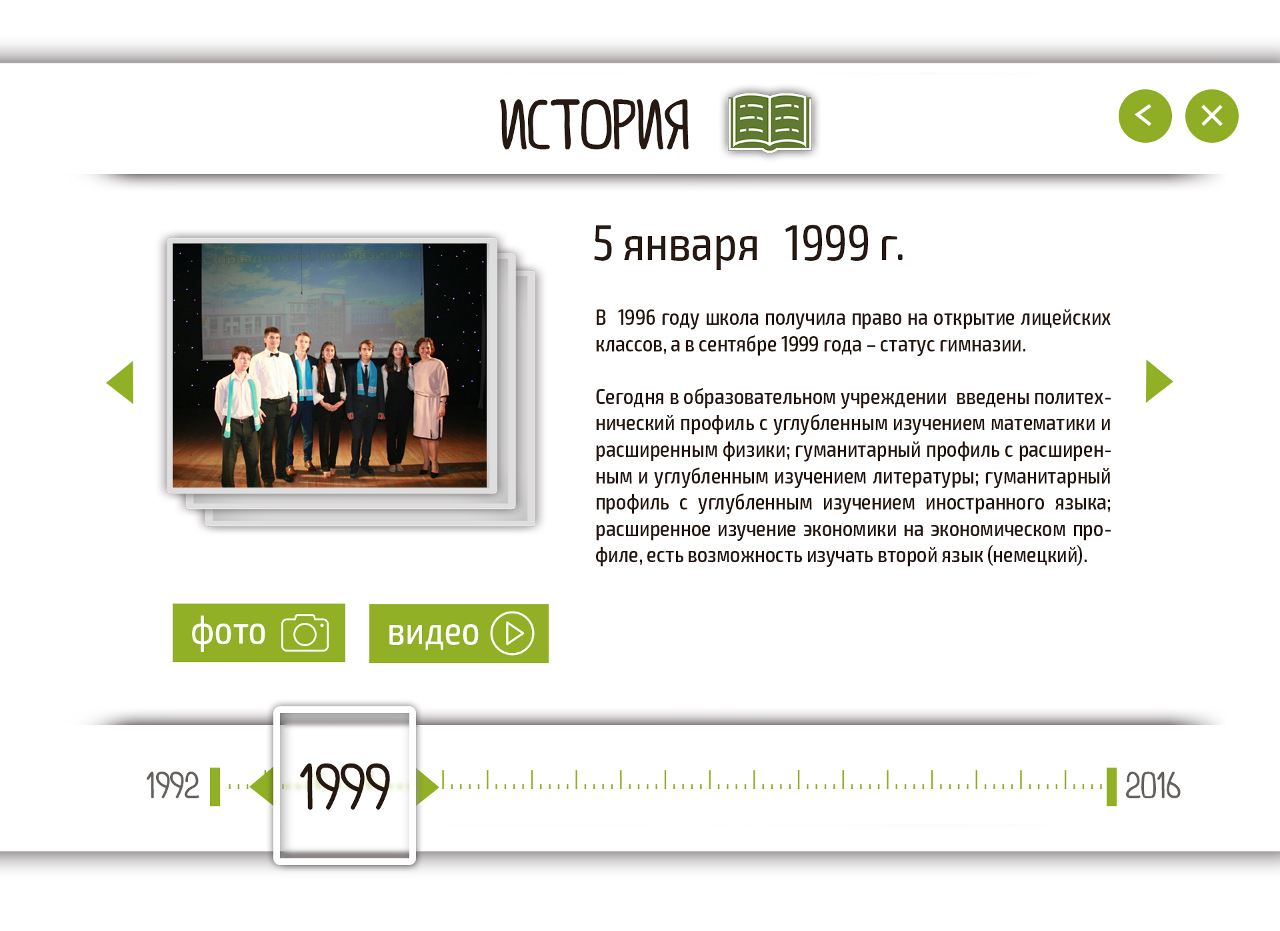
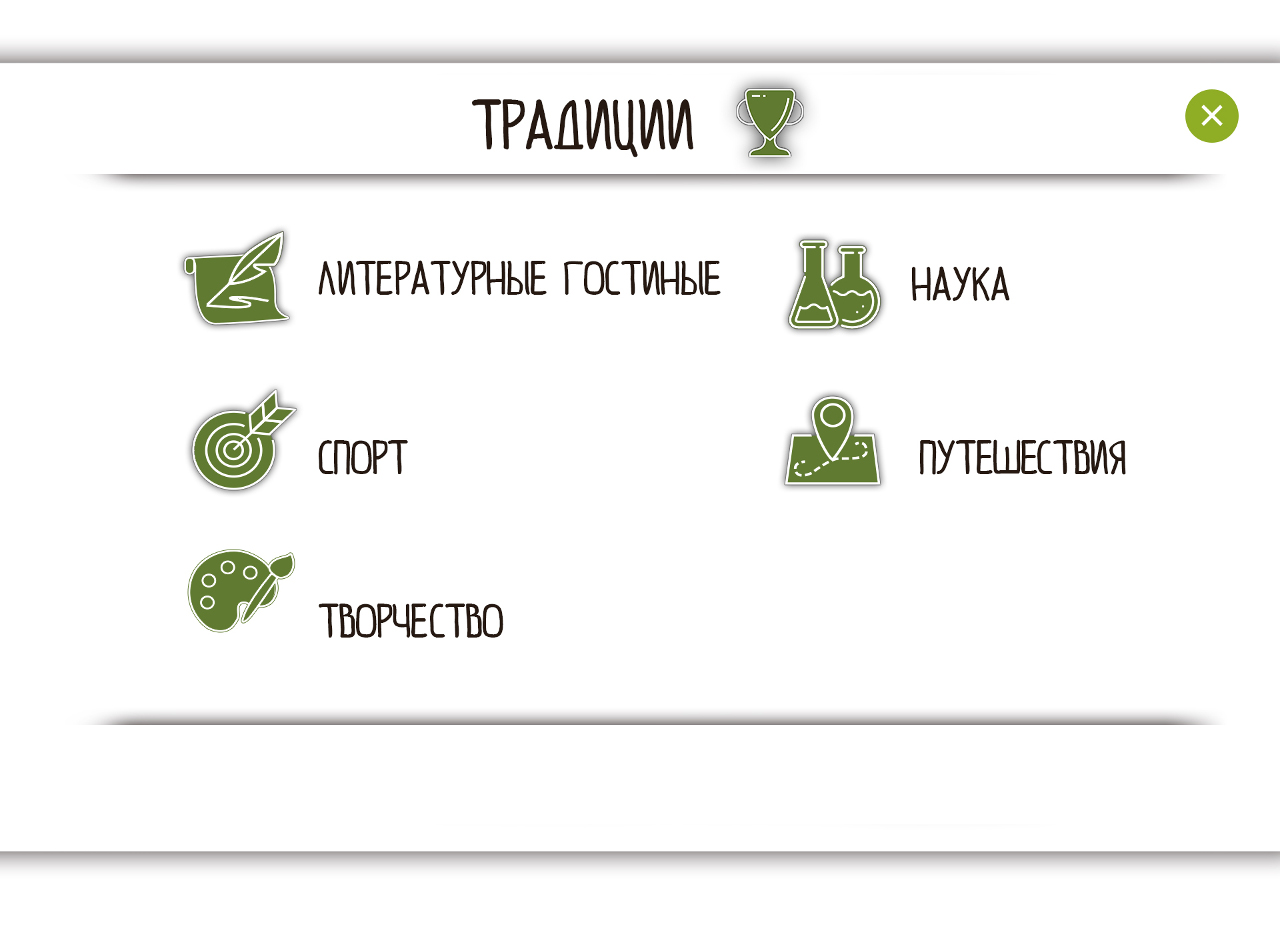
Add Traditions modal

diff --git a/src/main/js/app/RoutingManager.js b/src/main/js/app/RoutingManager.js
@@ -16,6 +16,7 @@ import HistoryEvents from '../components/HistoryEvents/HistoryEvents';
 import HistoryEventsMedia from '../components/HistoryEvents/HistoryEventsMedia/HistoryEventsMedia';
 import HistoryEventsPhoto from '../components/HistoryEvents/HistoryEventsMedia/HistoryEventsPhoto/HistoryEventsPhoto';
 import HistoryEventsVideo from '../components/HistoryEvents/HistoryEventsMedia/HistoryEventsVideo/HistoryEventsVideo';
+import Traditions from '../components/Traditions/Traditions';
 
 class EmptyModal extends React.Component {
   render() {
@@ -91,7 +92,8 @@ class SouvenirOrderModal extends React.Component {
 
 class HistoryEventsModal extends React.Component {
   render() {
-    this.props.params.type = "HISTORY";
+    if (!this.props.params.type)
+      this.props.params.type = "history";
     return renderModalWithComponent(HistoryEvents, this.props.params)
   }
 }
@@ -114,15 +116,23 @@ class HistoryEventsVideoWrapper extends React.Component {
 
 class HistoryEventsPhotoModal extends React.Component {
   render() {
-    this.props.params.type = "HISTORY";
+    if (!this.props.params.type)
+      this.props.params.type = "history";
     return renderInnerModalWithComponent(HistoryEvents, HistoryEventsPhotoWrapper, this.props.params);
   }
 }
 
 class HistoryEventsVideoModal extends React.Component {
   render() {
-    this.props.params.type = "HISTORY";
+    if (!this.props.params.type)
+      this.props.params.type = "history";
     return renderInnerModalWithComponent(HistoryEvents, HistoryEventsVideoWrapper, this.props.params);
+  }
+}
+
+class TraditionsModal extends React.Component {
+  render() {
+    return renderModalWithComponent(Traditions, this.props.params);
   }
 }
 
@@ -140,6 +150,10 @@ export default class RoutingManager {
                 <Route path="/history(/:eventId)" component={HistoryEventsModal}/>
                 <Route path="/history/:eventId/photo/(:index)" component={HistoryEventsPhotoModal}/>
                 <Route path="/history/:eventId/video/(:index)" component={HistoryEventsVideoModal}/>
+                <Route path="/traditions" component={TraditionsModal}/>
+                <Route path="/traditions/:type(/:eventId)" component={HistoryEventsModal}/>
+                <Route path="/traditions/:type/:eventId/photo/(:index)" component={HistoryEventsPhotoModal}/>
+                <Route path="/traditions/:type/:eventId/video/(:index)" component={HistoryEventsVideoModal}/>
                 <Route path="*" component={null}/>
             </Router>
         ), document.getElementsByClassName('ReactModalPortal')[0]);

diff --git a/src/main/js/components/HistoryEvents/HistoryEvents.js b/src/main/js/components/HistoryEvents/HistoryEvents.js
@@ -14,21 +14,21 @@ import Actions from '../../actions/Actions';
 import HistoryEventsStore from '../../stores/HistoryEventsStore';
 
 const modalTitles = {
-    HISTORY: "ИСТОРИЯ",
-    LITERATURE_CLUB: "ЛИТЕРАТУРНЫЕ ГОСТИННЫЕ",
-    SPORT: "СПОРТ",
-    ART: "ТВОРЧЕСТВО",
-    SCIENCE: "НАУКА",
-    TRAVEL: "ПУТЕШЕСТВИЯ"
+    history: "ИСТОРИЯ",
+    literature_club: "ЛИТЕРАТУРНЫЕ ГОСТИННЫЕ",
+    sport: "СПОРТ",
+    art: "ТВОРЧЕСТВО",
+    science: "НАУКА",
+    travel: "ПУТЕШЕСТВИЯ"
 };
 
 const modalIcons = {
-    HISTORY: "book",
-    LITERATURE_CLUB: "scroll",
-    SPORT: "darts",
-    ART: "easel",
-    SCIENCE: "bulbs",
-    TRAVEL: "map"
+    history: "book",
+    literature_club: "scroll",
+    sport: "darts",
+    art: "easel",
+    science: "bulbs",
+    travel: "map"
 }
 
 export default class HistoryEvents extends SelfUpdatingComponent {
@@ -57,7 +57,7 @@ export default class HistoryEvents extends SelfUpdatingComponent {
             return;
         }
 
-        this.pathPrefix = type === "HISTORY" ? "/history" : `/traditions/${type.toLowerCase()}`;
+        this.pathPrefix = type === "history" ? "/history" : `/traditions/${type.toLowerCase()}`;
 
         
         this.firstEventForEachYear = {};
@@ -82,6 +82,7 @@ export default class HistoryEvents extends SelfUpdatingComponent {
                 previousEvent: currentEventIndex === 0 ? null : list[currentEventIndex - 1],
                 nextEvent: currentEventIndex === list.length - 1 ? null : list[currentEventIndex + 1]
             });
+        //location.hash is "#/history|(traditions/...)"
         } else {
             id = list[0].id;
             Actions.routeTo(`${this.pathPrefix}/${id}`);
@@ -126,10 +127,12 @@ export default class HistoryEvents extends SelfUpdatingComponent {
                 />
             </div> :
             null;
+
+        var backUrl = type === "history" ? null : "/traditions";
         
         return (
             <div className="historyEvents">
-                <ModalHeader title={modalTitles[type]} iconType={modalIcons[type]}/>
+                <ModalHeader title={modalTitles[type]} iconType={modalIcons[type]} backUrl={backUrl}/>
                 <div className="modal_content historyEvents_content">
                     <div
                         className={classnames("arrow_left", "historyEvents_arrowLeft", {historyEvents_arrow_disabled: state.previousEvent === null})}

diff --git a/src/main/js/components/Traditions/Traditions.js b/src/main/js/components/Traditions/Traditions.js
@@ -1,0 +1,47 @@
+'use strict';
+
+import './Traditions.css';
+
+import React from 'react';
+import classnames from 'classnames';
+import { Link } from 'react-router';
+
+import ModalHeader from '../Modal/ModalHeader/ModalHeader';
+import ModalFooter from '../Modal/ModalFooter/ModalFooter';
+
+import Actions from '../../actions/Actions';
+import HistoryEventsStore from '../../stores/HistoryEventsStore';
+
+export default class Traditions extends React.Component {
+    render() {
+        function renderItem(columnNumber, iconType, name, linkTo) {
+            return (
+                <Link to={`/traditions/${linkTo}`} className={`traditions_column traditions_column_${columnNumber.toString()}`}>
+                    <div className={`tradition_icon tradition_icon_${iconType}`}></div>
+                    <div className="traditions_itemName">{name}</div>
+                </Link>
+            )
+        }
+
+
+        return (
+            <div className="traditions">
+                <ModalHeader title="ТРАДИЦИИ" iconType="cup"/>
+                <div className="modal_content traditions_content">
+                    <div className="traditions_row">
+                        {renderItem(1, "scroll", "ЛИТЕРАТУРНЫЕ ГОСТИННЫЕ", "literature_club")}
+                        {renderItem(2, "bulbs", "НАУКА", "science")}
+                    </div>
+                    <div className="traditions_row">
+                        {renderItem(1, "darts", "СПОРТ", "sport")}
+                        {renderItem(2, "map", "ПУТЕШЕСТВИЯ", "travel")}
+                    </div>
+                    <div className="traditions_row">
+                        {renderItem(1, "easel", "ТВОРЧЕСТВО", "art")}
+                    </div>
+                </div>
+                <ModalFooter/>
+            </div>
+        )
+    }
+}

diff --git a/src/main/js/components/Modal/ModalHeader/ModalHeader.css b/src/main/js/components/Modal/ModalHeader/ModalHeader.css
@@ -11,32 +11,64 @@
 
 .modal_icon {
     display: inline-block;
-    width: 99px;
     height: 85px;
     vertical-align: middle;
+    background-image: url(./images/icons.png); 
 }
 
 .modal_icon.modal_icon_leaf {
-    width: 64px;
-    background-image: url(./images/leaf.png); 
+    background-position-x: left;
+    width: 61px;
 }
 
 .modal_icon.modal_icon_mortarboard {
-    background-image: url(./images/mortarboard.png);
-}
-
-.modal_icon.modal_icon_admin {
-    width: 71px;
-    background-image: url(./images/admin.png);
+    background-position-x: -61px;
+    width: 100px;
 }
 
 .modal_icon.modal_icon_t-shirt {
-    background-image: url(./images/t-shirt.png);
+    background-position-x: -161px;
+    width: 102px;
 }
 
 .modal_icon.modal_icon_book {
-    width: 121px;
-    background-image: url(./images/book.png);
+    background-position-x: -263px;
+    width: 114px;
+}
+
+.modal_icon.modal_icon_admin {
+    background-position-x: -377px;
+    width: 73px;
+}
+
+.modal_icon.modal_icon_cup {
+    background-position-x: -450px;
+    width: 86px;
+}
+
+.modal_icon.modal_icon_scroll {
+    background-position-x: -536px;
+    width: 97px;
+}
+
+.modal_icon.modal_icon_darts {
+    background-position-x: -633px;
+    width: 90px;
+}
+
+.modal_icon.modal_icon_easel {
+    background-position-x: -723px;
+    width: 108px;
+}
+
+.modal_icon.modal_icon_bulbs {
+    background-position-x: -831px;
+    width: 91px;
+}
+
+.modal_icon.modal_icon_map {
+    background-position-x: -922px;
+    width: 91px;
 }
 
 .modal_closeButton {

diff --git a/src/main/js/components/Traditions/Traditions.css b/src/main/js/components/Traditions/Traditions.css
@@ -1,0 +1,68 @@
+.traditions_content {
+    margin: 45px 0 7px 162px;
+    width: 1098px;
+    height: 498px;
+}
+
+.traditions_row {
+    margin-bottom: 50px;
+}
+
+.traditions_column {
+    display: inline-block;
+    vertical-align: top;
+    text-decoration: none;
+    color: black;
+    border-radius: 5px;
+}
+
+.traditions_column:hover {
+    background-color: rgba(200, 200, 200, 0.2);
+}
+
+.traditions_column_1 {
+    width: 604px;
+}
+
+.traditions_column_2 {
+    width: 430px;
+}
+
+.tradition_icon {
+    display: inline-block;
+    vertical-align: middle;
+    margin-right: 17px;
+    height: 120px;
+    background-image: url(./images/icons.png);
+}
+
+.tradition_icon_scroll {
+    width: 130px;
+    background-position-x: left;
+}
+
+.tradition_icon_darts {
+    width: 129px;
+    background-position-x: -130px;
+}
+
+.tradition_icon_easel {
+    width: 130px;
+    background-position-x: -259px;
+}
+
+.tradition_icon_bulbs {
+    width: 116px;
+    background-position-x: -389px;
+}
+
+.tradition_icon_map {
+    width: 119px;
+    background-position-x: -505px;
+}
+
+.traditions_itemName {
+    font: 34px Karton-Regular;
+    display: inline-block;
+    vertical-align: middle;
+}

diff --git a/src/main/js/components/HistoryEvents/HistoryEventsMedia/HistoryEventsMedia.js b/src/main/js/components/HistoryEvents/HistoryEventsMedia/HistoryEventsMedia.js
@@ -37,7 +37,7 @@ export default class HistoryEventsMedia extends SelfUpdatingComponent {
             this.setState({ loaded: false });
             return;
         }
-        this.pathPrefix = type === "HISTORY" ? "history" : `traditions/${type}`;
+        this.pathPrefix = type === "history" ? "history" : `traditions/${type}`;
 
         this.setState({
             loaded: true,
